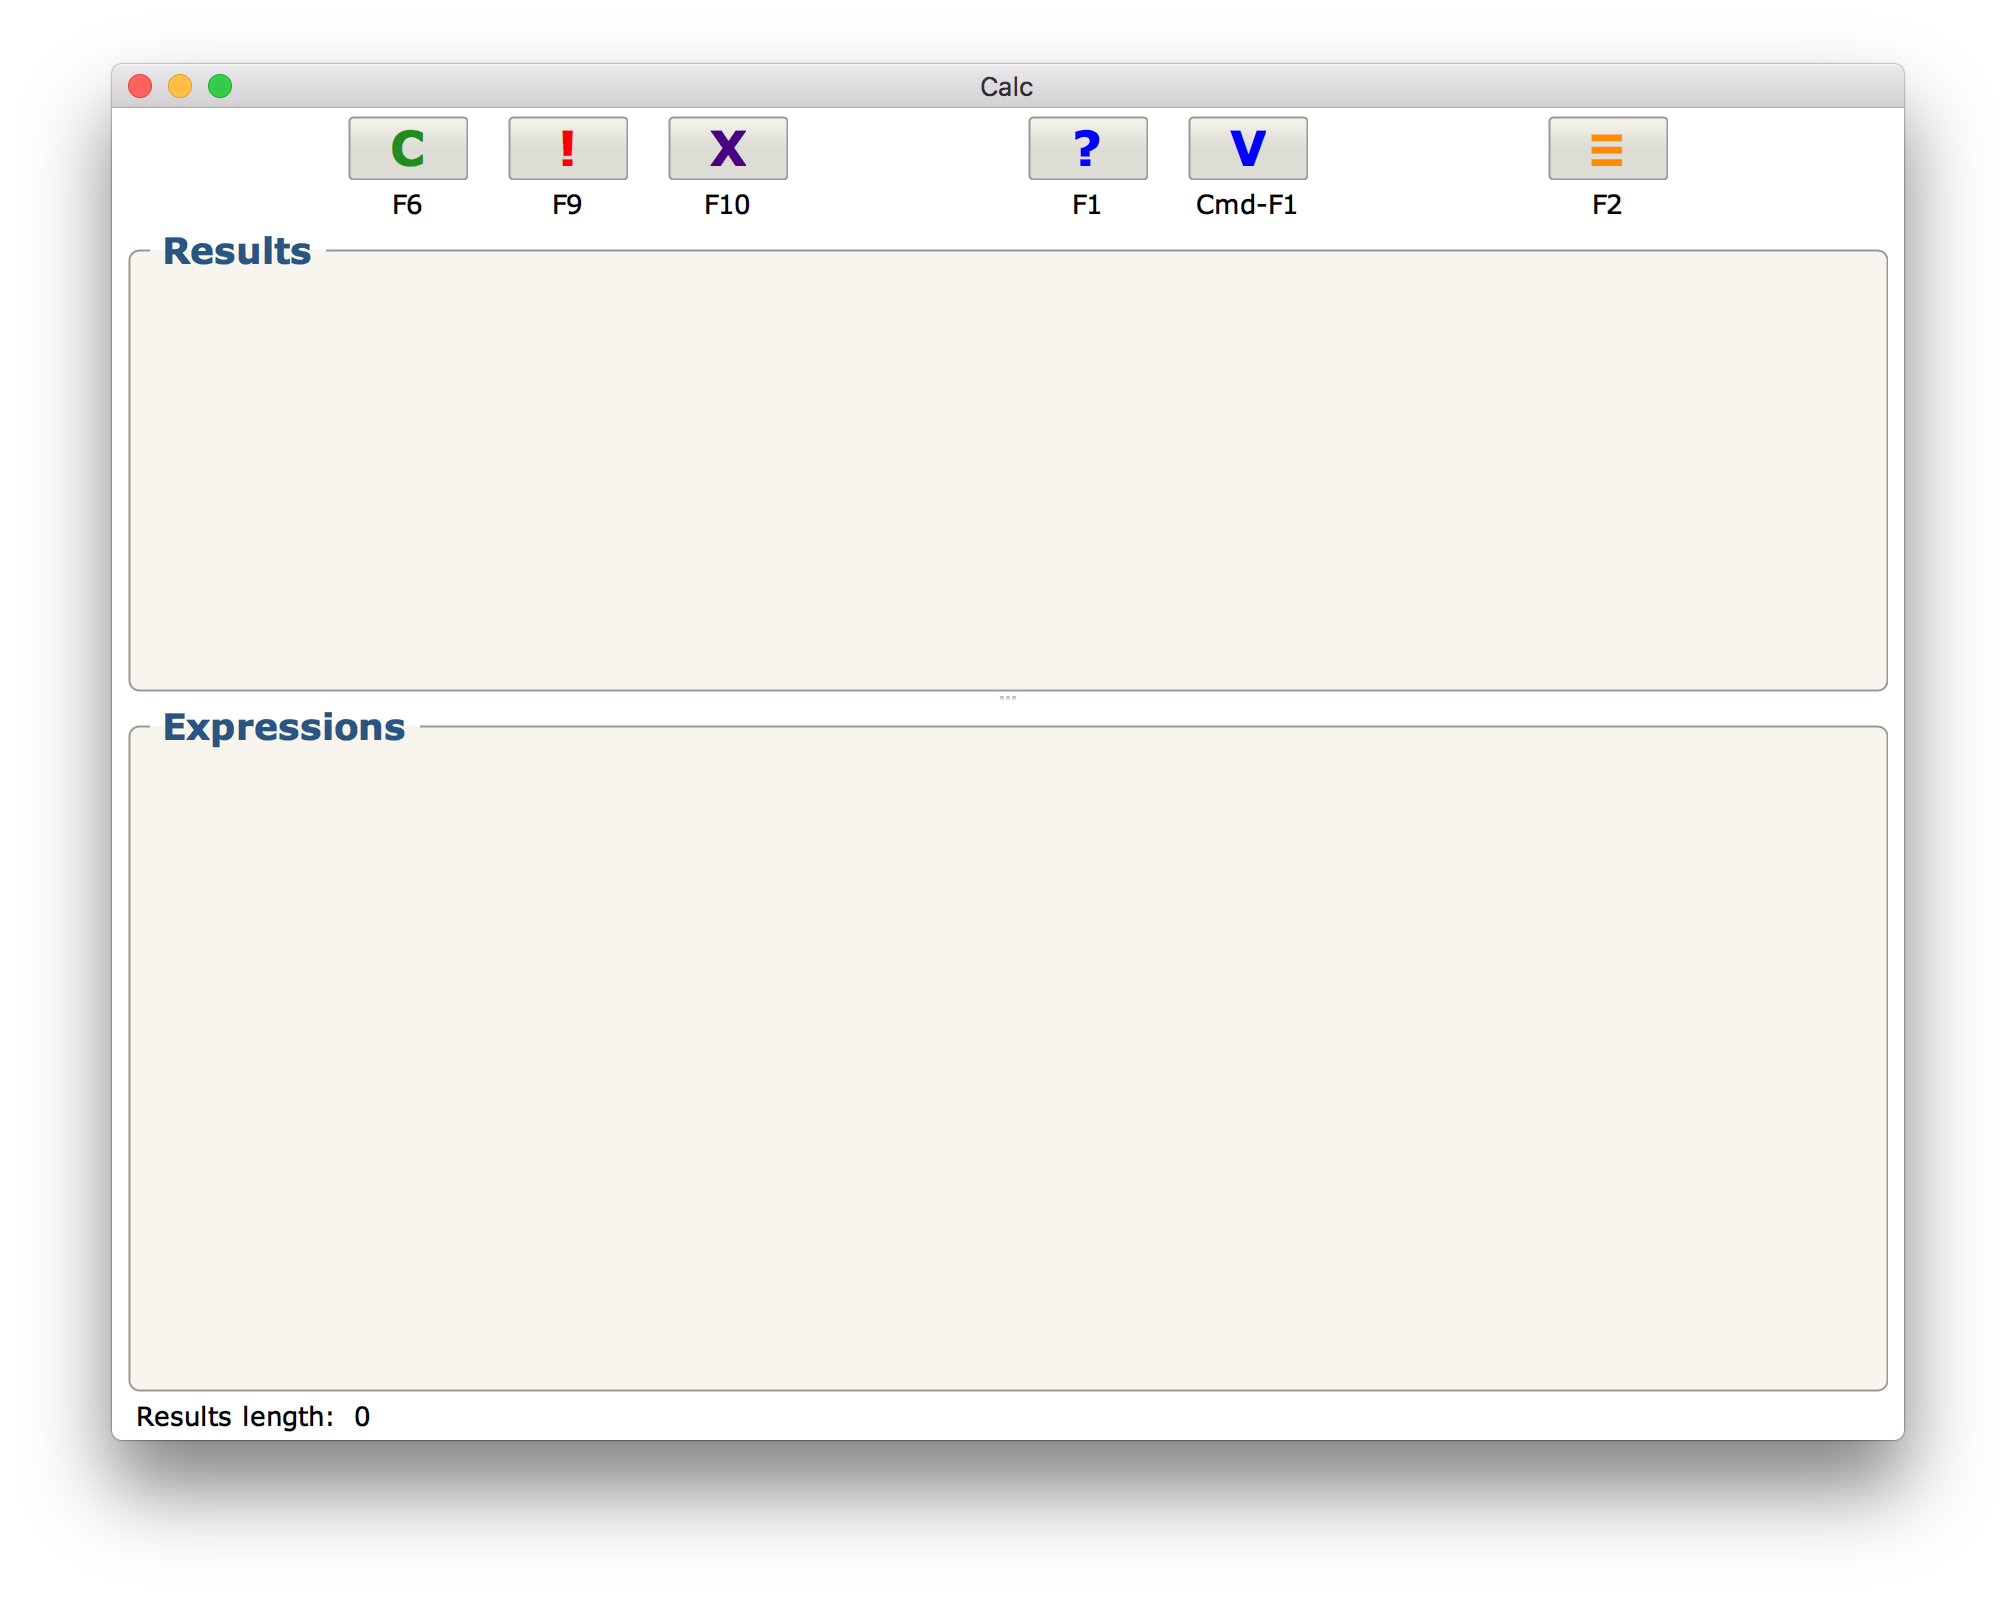
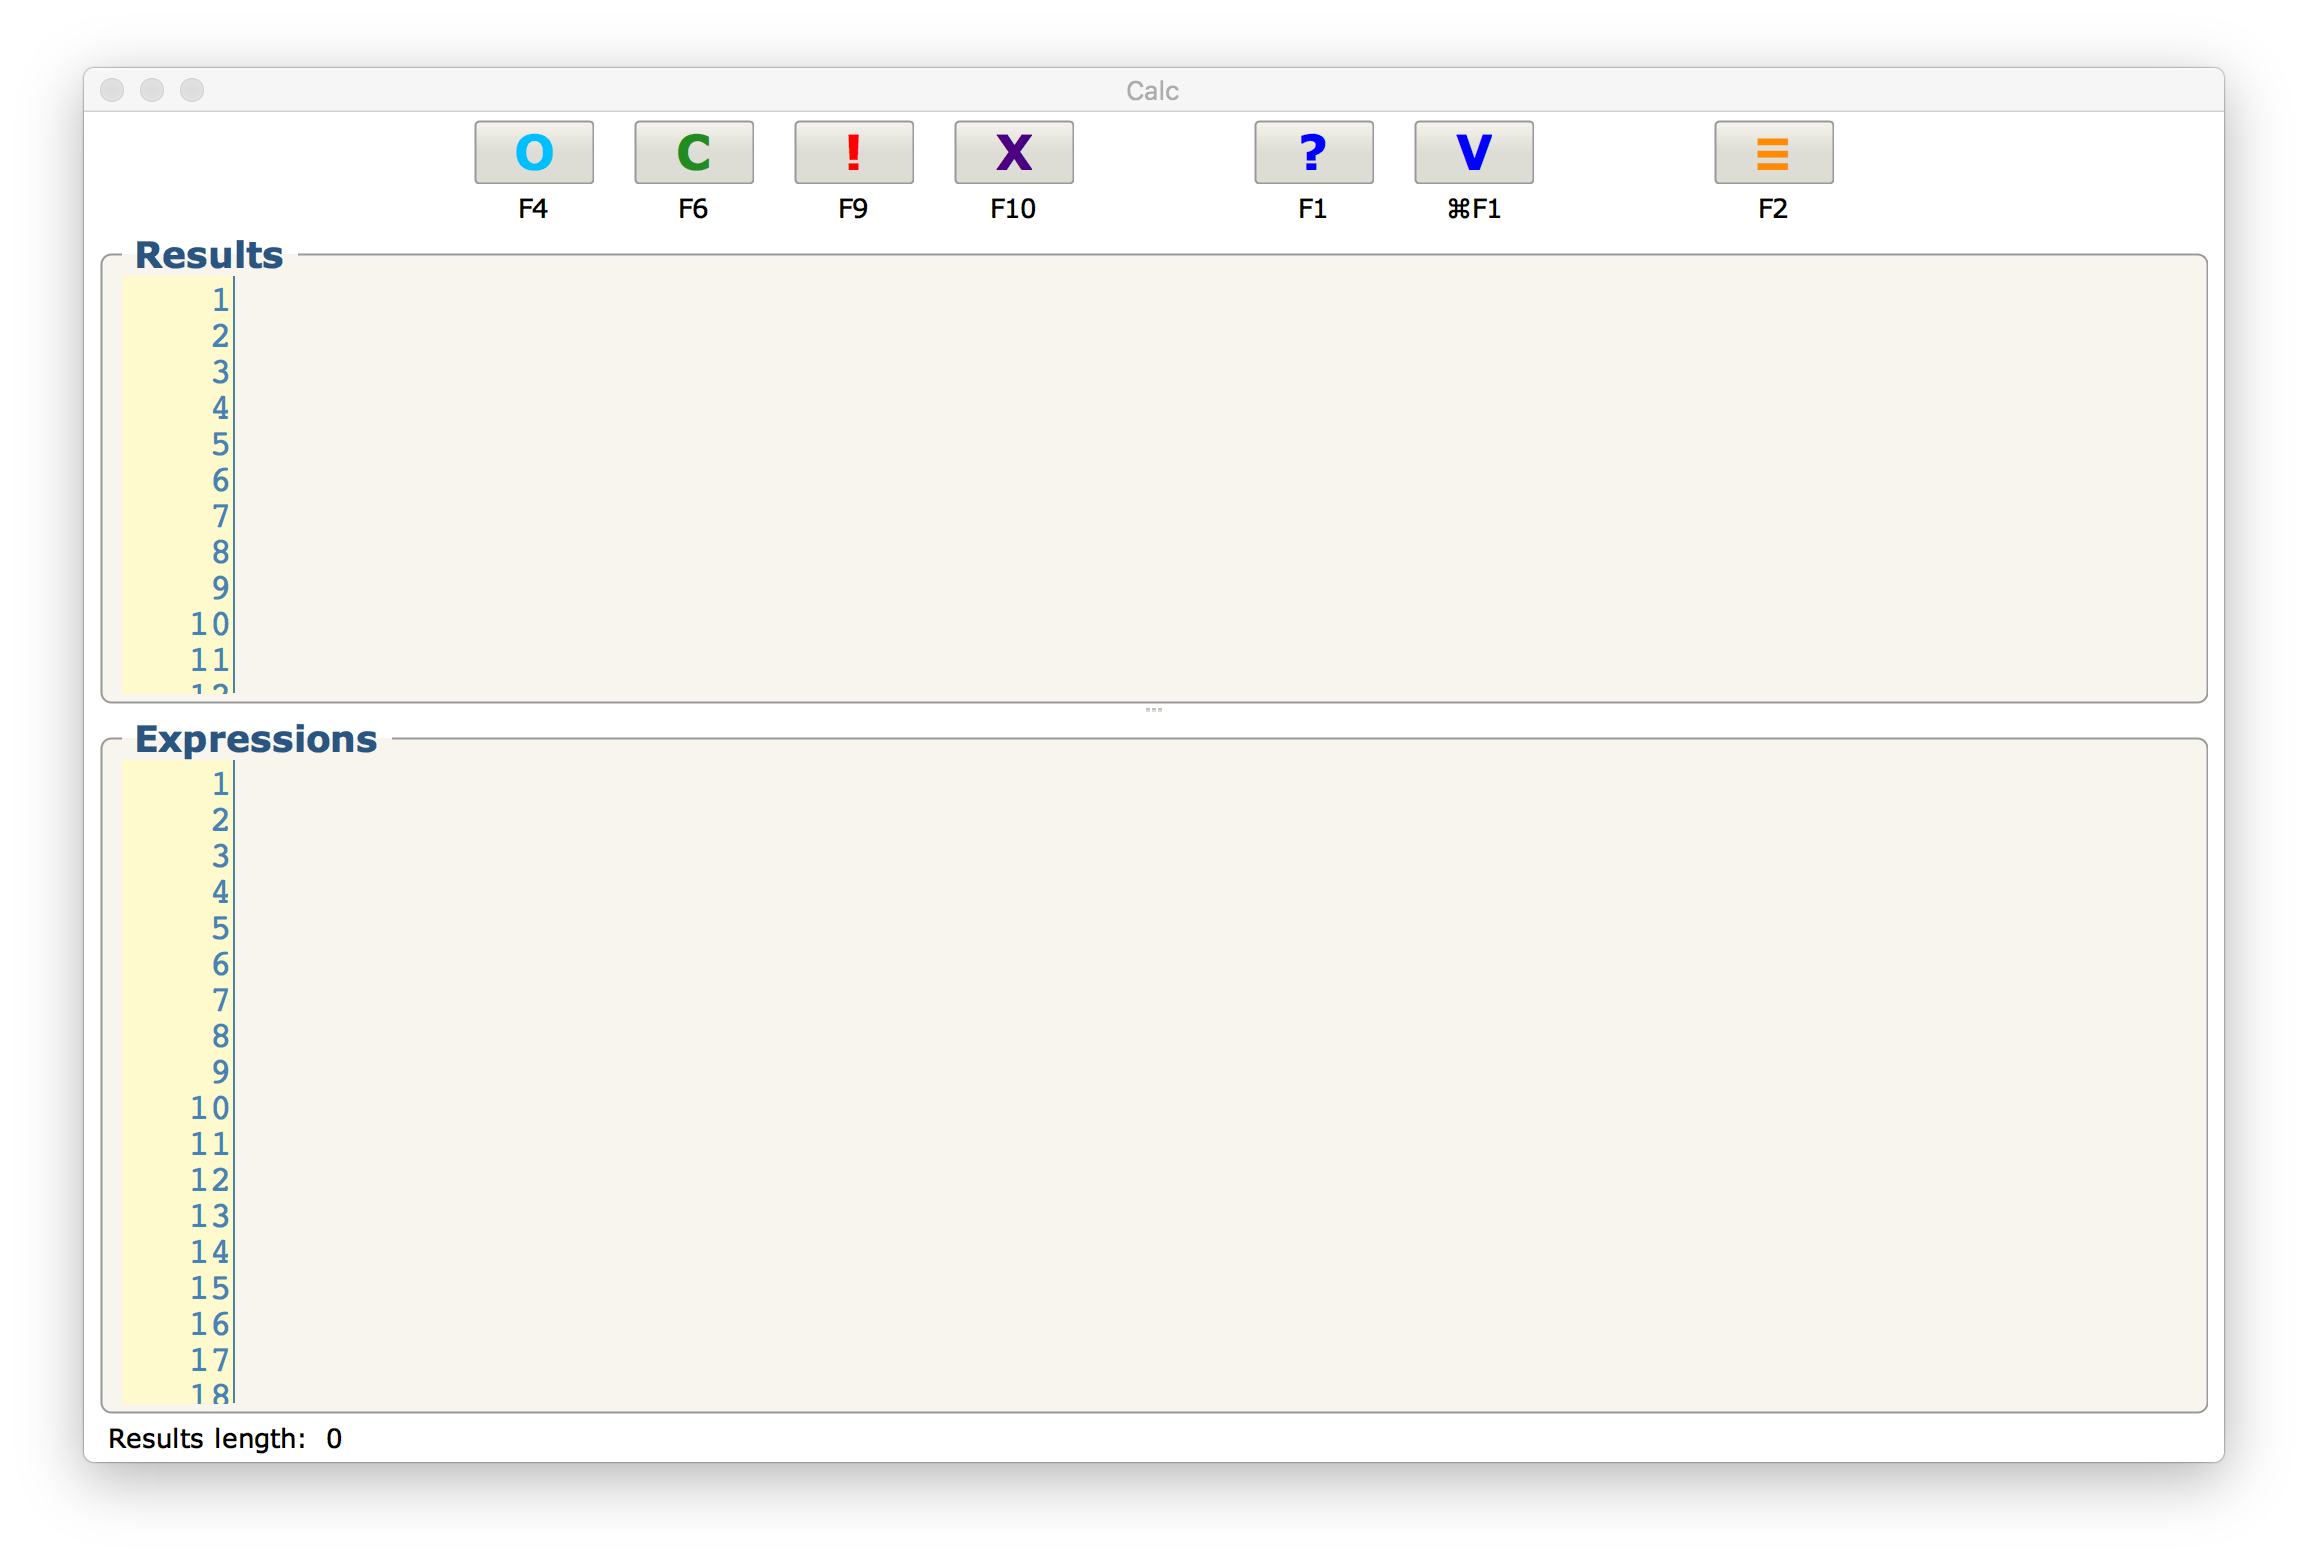
Dynamically set the tooltip and label text for the "Cmd-F1" ("version") button in Calc.

Changed region(s): [[0.0312, 0.0307, 0.9688, 0.9526]]

diff --git a/java/info/rlwhitcomb/calc/Calc.java b/java/info/rlwhitcomb/calc/Calc.java
@@ -131,6 +131,8 @@
  *	12-Apr-2021 (rlwhitcomb)
  *	    When opening multiple files at once, add a commented header to each
  *	    one in the input window to make it easier to tell what's what.
+ *	14-Apr-2021 (rlwhitcomb)
+ *	    Dynamically set the "Cmd-F1" tooltip and label text.
  */
 package info.rlwhitcomb.calc;
 
@@ -160,6 +162,7 @@ import org.apache.pivot.collections.Map;
 import org.apache.pivot.collections.Sequence;
 import org.apache.pivot.serialization.SerializationException;
 import org.apache.pivot.wtk.*;
+import org.apache.pivot.wtk.Keyboard.KeyStroke;
 import org.apache.pivot.wtk.text.Document;
 import org.apache.pivot.wtk.util.TextAreaOutputStream;
 
@@ -255,6 +258,8 @@ public class Calc
 	@BXML private NumberRuler inputRuler;
 	@BXML private NumberRuler outputRuler;
 	@BXML private Label outputSizeLabel;
+	@BXML private PushButton versionButton;
+	@BXML private Label versionLabel;
 	@BXML private Prompt versionPrompt;
 	@BXML private Label versionText;
 	@BXML private Label buildText;
@@ -525,6 +530,12 @@ public class Calc
 		outputRuler.getStyles().put(Style.font, monospacedFont);
 
 		inputTextPane.getComponentKeyListeners().add(keyPressListener);
+
+		KeyStroke versionKey = KeyStroke.decode("Cmd-F1");
+		String key = versionKey.toString();
+
+		versionButton.setTooltipText("Version (" + key + ")");
+		versionLabel.setText(key);
 
 		inputTextPane.setDocument(new Document());
 
